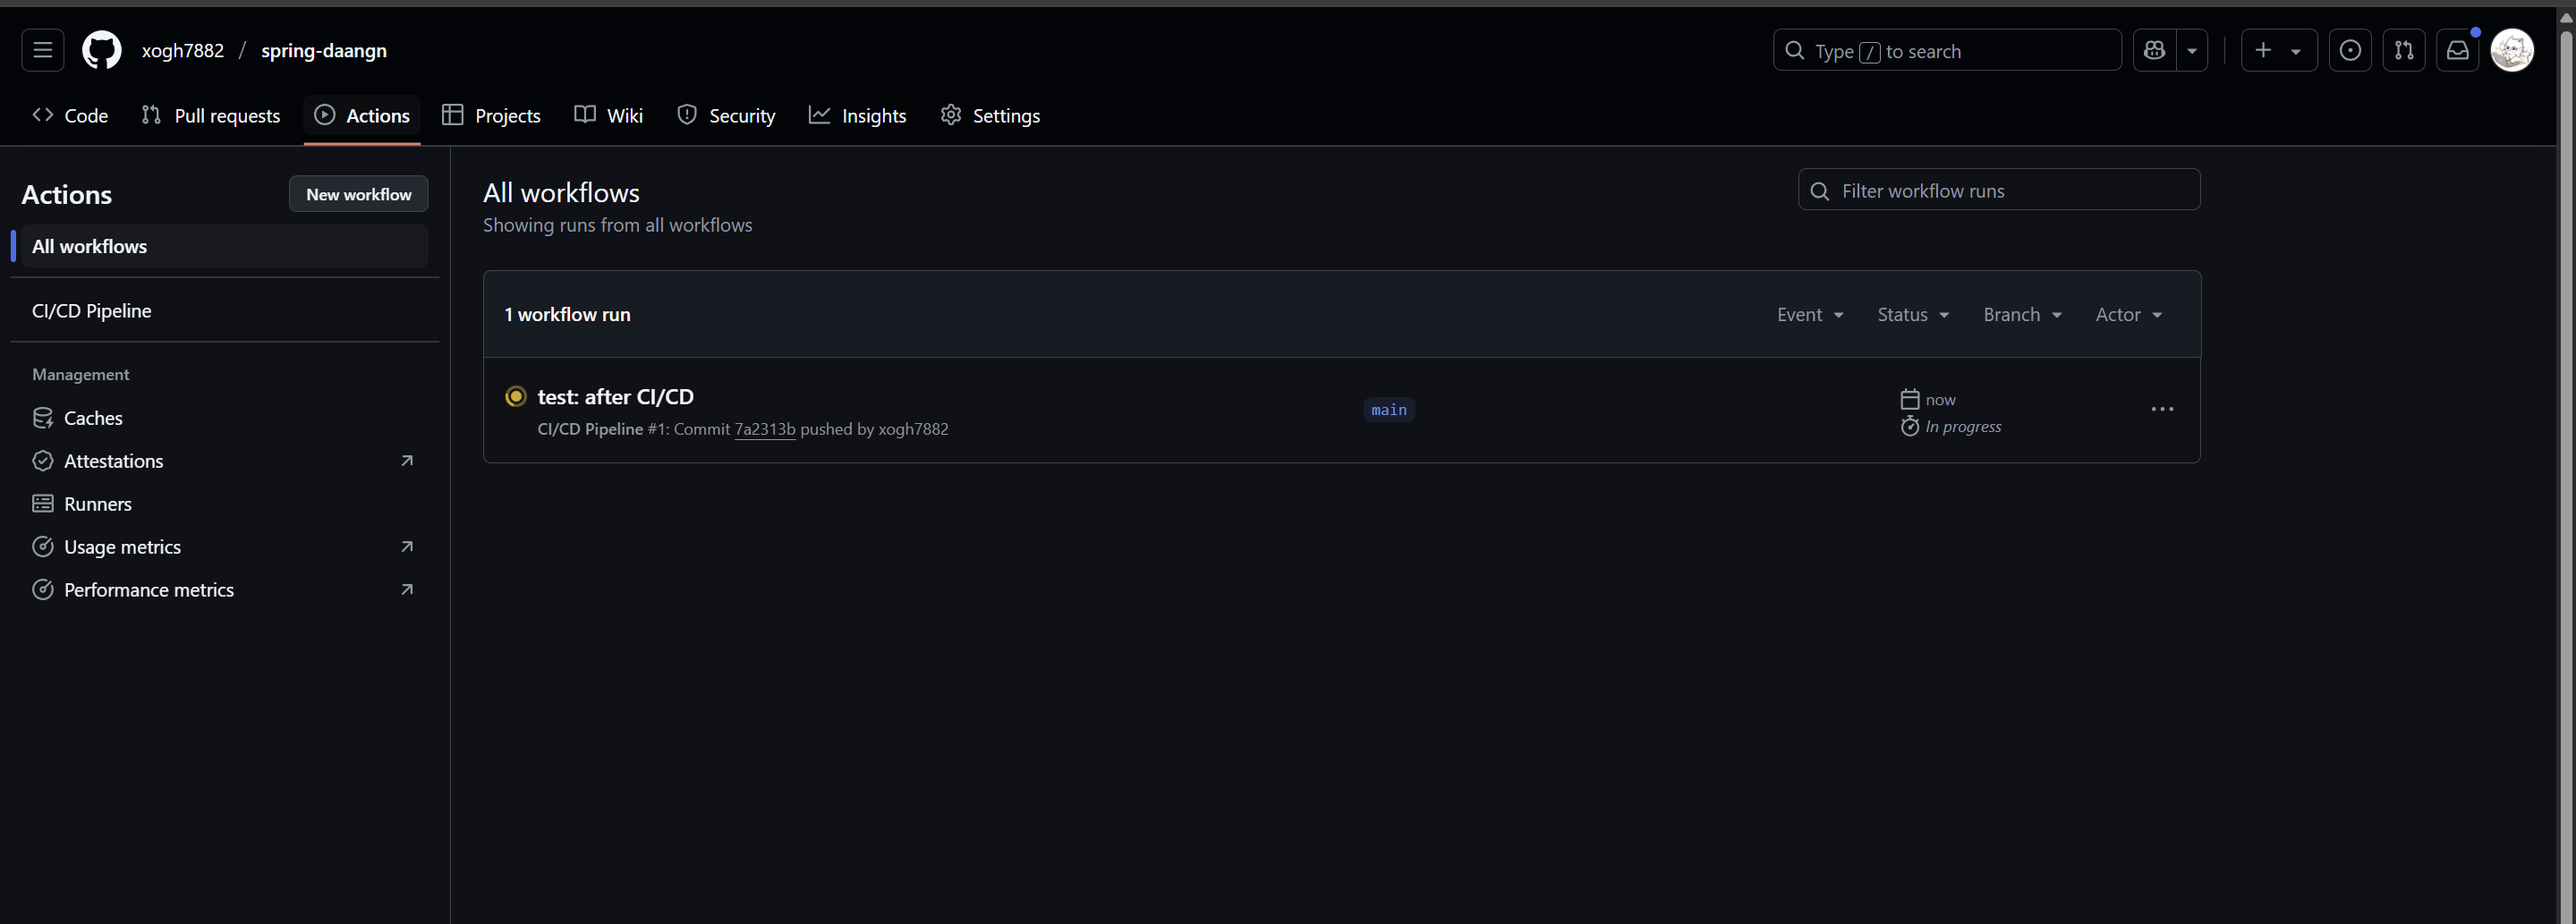
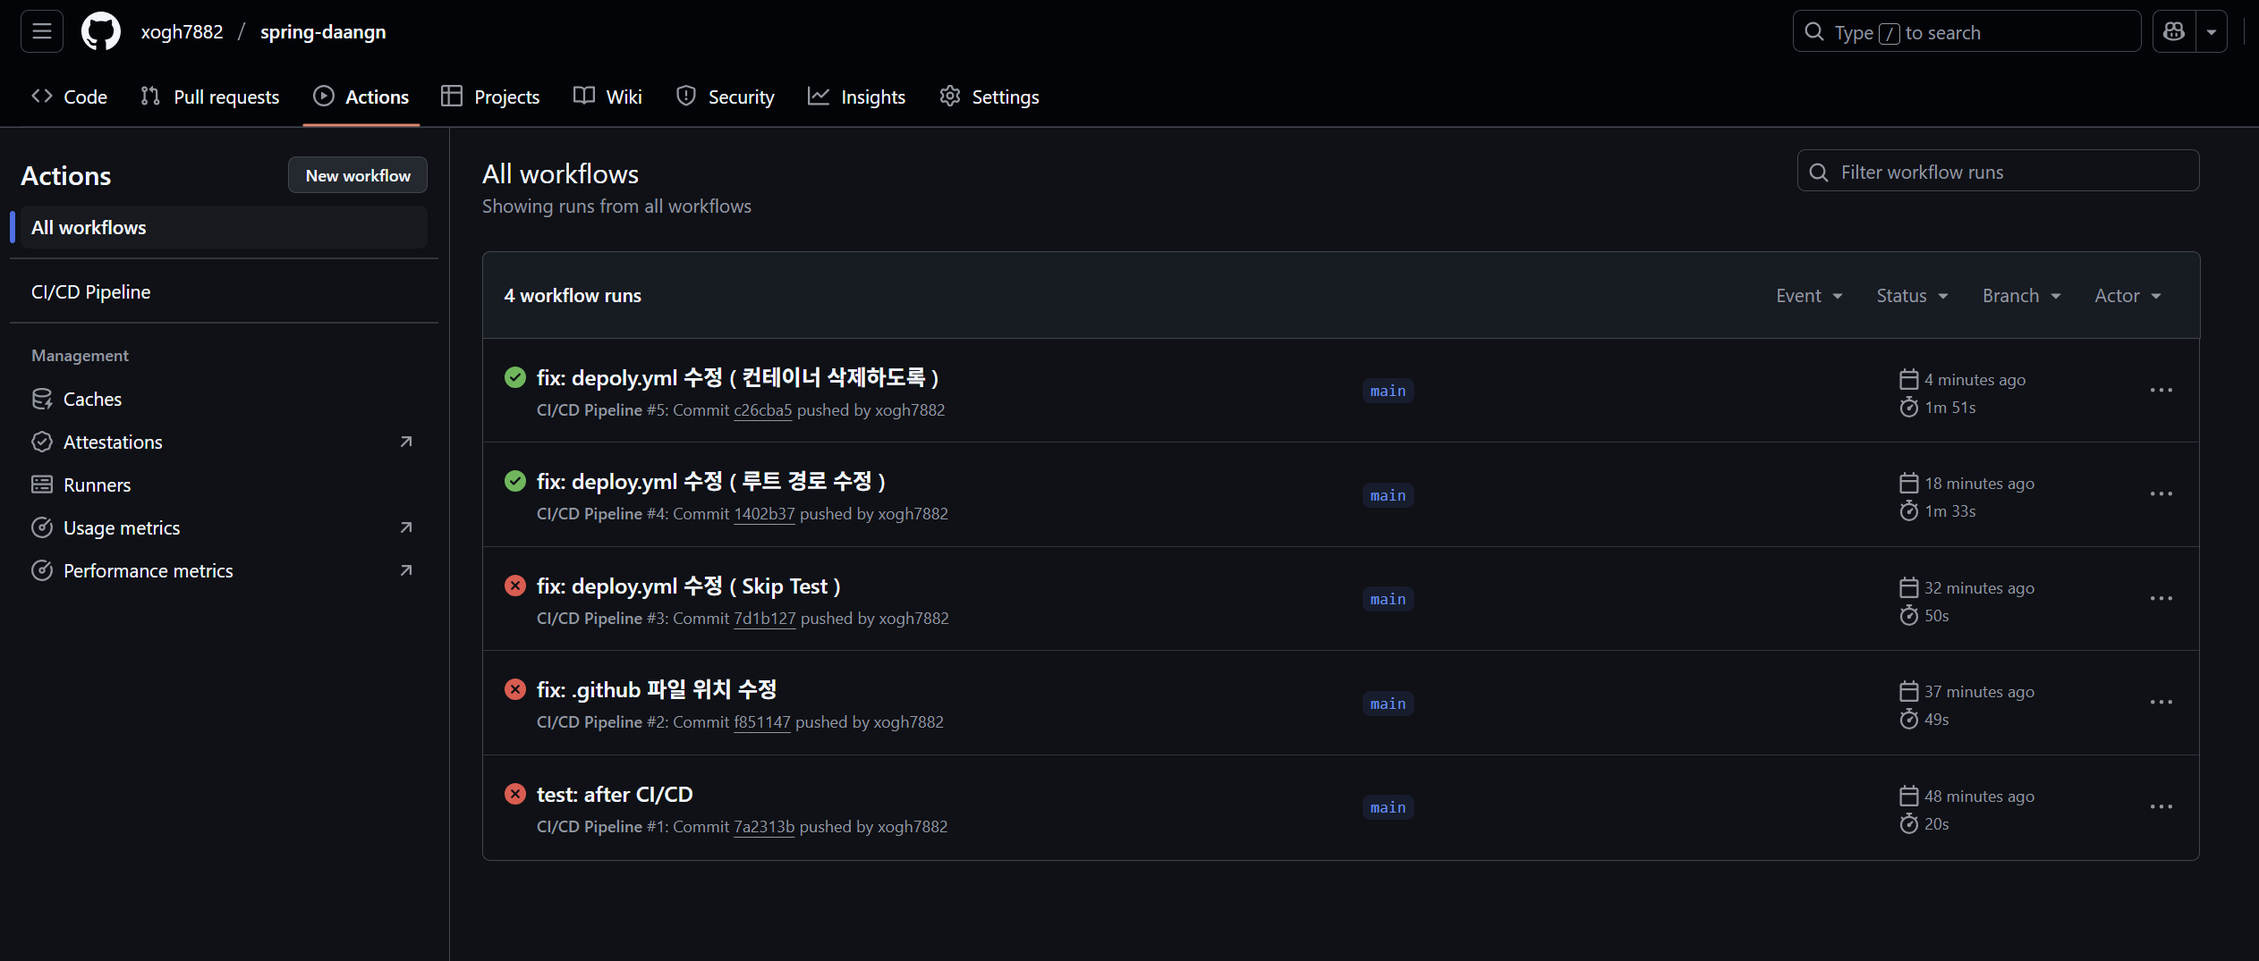
feat: 7주차 리드미 내용 추가

diff --git a/7주차 스터디.md b/7주차 스터디.md
@@ -292,7 +292,44 @@ Ex) EC2 1대 내에서 컨테이너가 여러 개
 <br>
 
 ### 4. Github에 Push 해보자!!
+#### 5번째 트라이만에 성공... ( 4번째도 실패했슴다.. )
+
 ![alt text](./image/7주차/image-7.png)
+
+![alt text](./image/7주차/image-8.png)
+
+#### CI/CD 성공했다 라는건?
+- 아까 만든 TestController 이 추가되었고
+- 자동으로 배포까지 되었다
 
 <br>
 
+## 확인해보자!
+#### Docker Hub 에 잘 올라갔고!
+
+![alt text](./image/7주차/image-9.png)
+
+<br>
+
+#### EC2 Docker 에도 컨테이너가 잘 실행 되었으며
+
+![alt text](./image/7주차/image-10.png)
+
+<br>
+
+#### API 까지 잘 추가된 모습 확인!!
+- 주소 보면 localhost 가 아니라 배포된 주소임을 확인 가능!
+
+![alt text](./image/7주차/image-11.png)
+
+![alt text](./image/7주차/image-12.png)
+
+<br>
+
+## CI/CD 성공!!
+### 이제 남은 건?
+지금은 원래 컨테이너를 중단하고, 새로 배포하고, 다시 실행한 <b>"인플레이스 배포"</b>
+
+= 무중단 배포를 해야 중간에 서비스가 종료되는 시점 없이 업데이트 가능!
+
+-> 무중단는 다음시간에...
